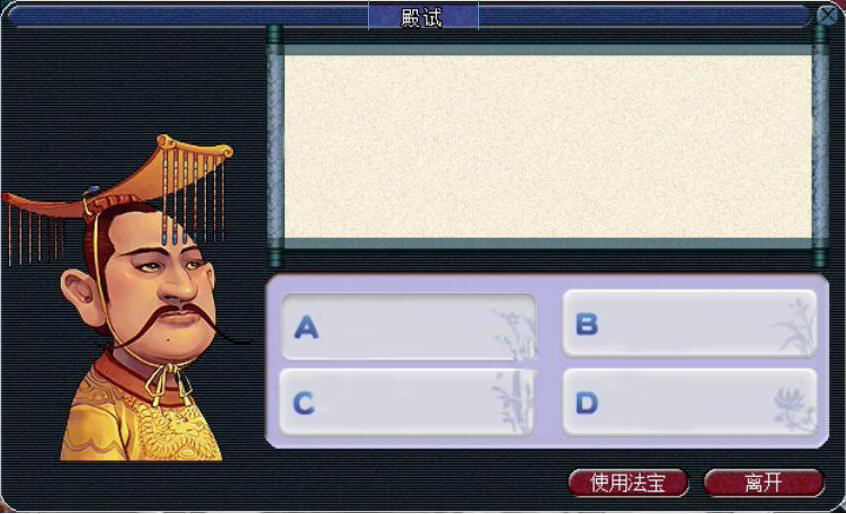
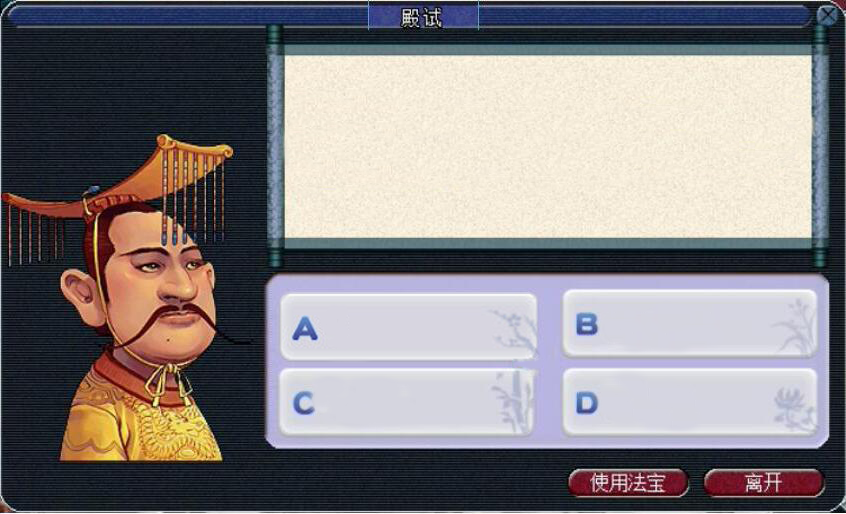
update: 时间精确到小数点一位，修改样式

Changed region(s): [[0.3381, 0.5603, 0.6454, 0.5914], [0.3073, 0.5914, 0.3995, 0.6848], [0.6147, 0.6537, 0.6454, 0.6848]]

diff --git a/screens/HomeScreen.js b/screens/HomeScreen.js
@@ -26,11 +26,10 @@ const styles = StyleSheet.create({
     height: 300,
   },
   Dialog: {
-    width: 400,
+    width: 420,
     height: 150,
-    marginTop: -30,
-    borderColor: 'green',
-    borderWidth: 1,
+    marginLeft: 5,
+    marginTop: -120,
   },
   StartBtn: {
     width: 25,
@@ -38,17 +37,13 @@ const styles = StyleSheet.create({
     position: 'absolute',
     left: '32%',
     top: '34%',
-    borderColor: 'red',
-    borderWidth: 1,
   },
   SecondBtn: {
     width: 90,
     height: 18,
     position: 'absolute',
-    top: 56,
+    top: 64,
     left: 20,
-    borderColor: 'red',
-    borderWidth: 1,
   },
   Content: {
     flex: 1,
@@ -64,13 +59,9 @@ const styles = StyleSheet.create({
     flex: 1,
     alignItems: 'center',
     justifyContent: 'center',
-    // borderColor: 'red',
-    // borderWidth: 1,
   },
   Right: {
     flex: 3,
-    // borderColor: 'yellow',
-    // borderWidth: 1,
   },
   topicContent: {
     flexDirection: 'row',
@@ -78,16 +69,12 @@ const styles = StyleSheet.create({
     paddingHorizontal: 30,
     paddingLeft: 50,
     alignItems: 'center',
-    // borderColor: 'green',
-    // borderWidth: 1,
   },
   Option: {
     flexDirection: 'row',
     flexWrap: 'wrap',
-    // borderColor: 'blue',
-    // borderWidth: 1,
     padding: 10,
-    paddingTop: 12,
+    paddingTop: 13,
   },
   normalOption: {
     width: 128,
@@ -95,19 +82,22 @@ const styles = StyleSheet.create({
     marginTop: 6,
     marginLeft: 49,
     borderRadius: 5,
-    // borderColor: 'red',
-    // borderWidth: 1,
     justifyContent: 'center',
   },
   normalOption2: {
     width: 128,
     height: 40,
     marginTop: 5,
-    marginLeft: 34,
+    marginLeft: 36,
     borderRadius: 5,
-    // borderColor: 'blue',
-    // borderWidth: 1,
     justifyContent: 'center',
+  },
+  CloseBtn: {
+    width: 30,
+    height: 30,
+    position: 'absolute',
+    right: 1,
+    top: 1,
   },
 });
 
@@ -122,9 +112,9 @@ class HomeScreen extends React.Component {
     selectAnwser: [0, 0, 0, 0, 0, 0, 0, 0, 0, 0],
     i: 0,
     time: '',
-    page: '3',
+    page: '1',
     useTime: '',
-    garde: '',
+    grade: '',
   };
 
   componentWillMount() {
@@ -147,9 +137,9 @@ class HomeScreen extends React.Component {
     if (time < 1000) {
       useTime = '小于1秒钟！';
     } else if (time > 1000 && time < 60000) {
-      useTime = Math.floor(time / 1000) + '秒';
+      useTime = (time / 1000).toFixed(1) + '秒';
     } else if (time > 60000 && time < 3600000) {
-      useTime = Math.floor(time / 60000) + '分钟' + Math.floor(time % 60) + '秒';
+      useTime = Math.floor(time / 60000) + '分钟' + (time % 60).toFixed(1) + '秒';
     } else {
       useTime = '超过一个小时了，你也太慢了8。。';
     }
@@ -160,10 +150,7 @@ class HomeScreen extends React.Component {
         grade++;
       }
     });
-    this.setState({ page: '4', useTime, garde });
-    // this.props.navigation.push('Detail', {
-    //   grade, useTime,
-    // });
+    this.setState({ page: '4', useTime, grade });
   }
 
   selectAnwser = (select) => {
@@ -182,7 +169,7 @@ class HomeScreen extends React.Component {
   }
 
   render() {
-    const { page, arr, i } = this.state;
+    const { page, arr, i, grade, useTime } = this.state;
     const v = arr[i];
     const { title = '', option = [] } = v;
     return (
@@ -231,8 +218,10 @@ class HomeScreen extends React.Component {
           <ImageBackground source={finished} style={styles.FirstView}>
             <View style={styles.Dialog}>
               <View>
-                <Text>
-                  您已答完10道题，共答对（{garde}）道<br />
+                <Text style={{ fontSize: 20, marginTop: 10, color: 'white' }}>
+                  您已答完10道题，共答对（{grade}）道
+                </Text>
+                <Text style={{ fontSize: 20, marginTop: 10, color: 'white' }}>
                   用时：{useTime}
                 </Text>
               </View>
